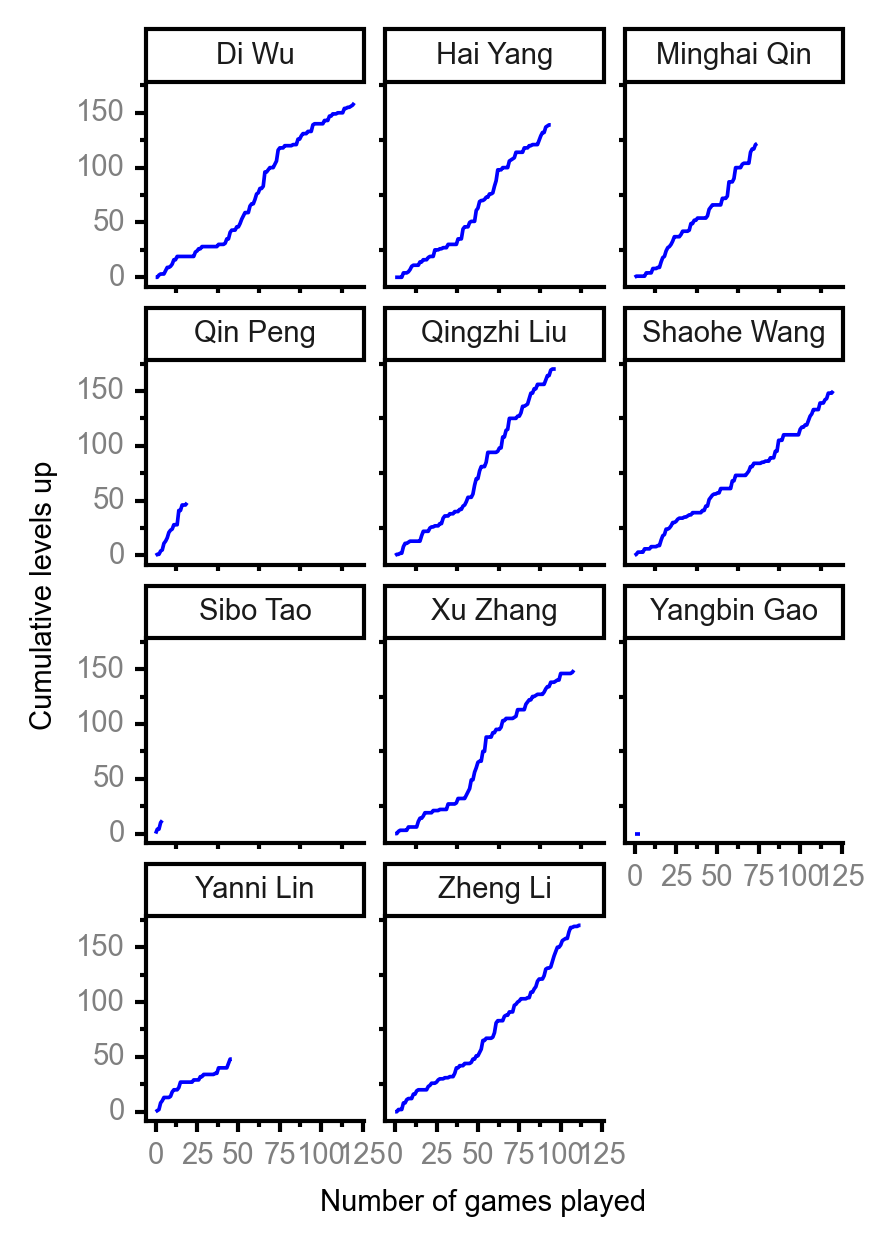
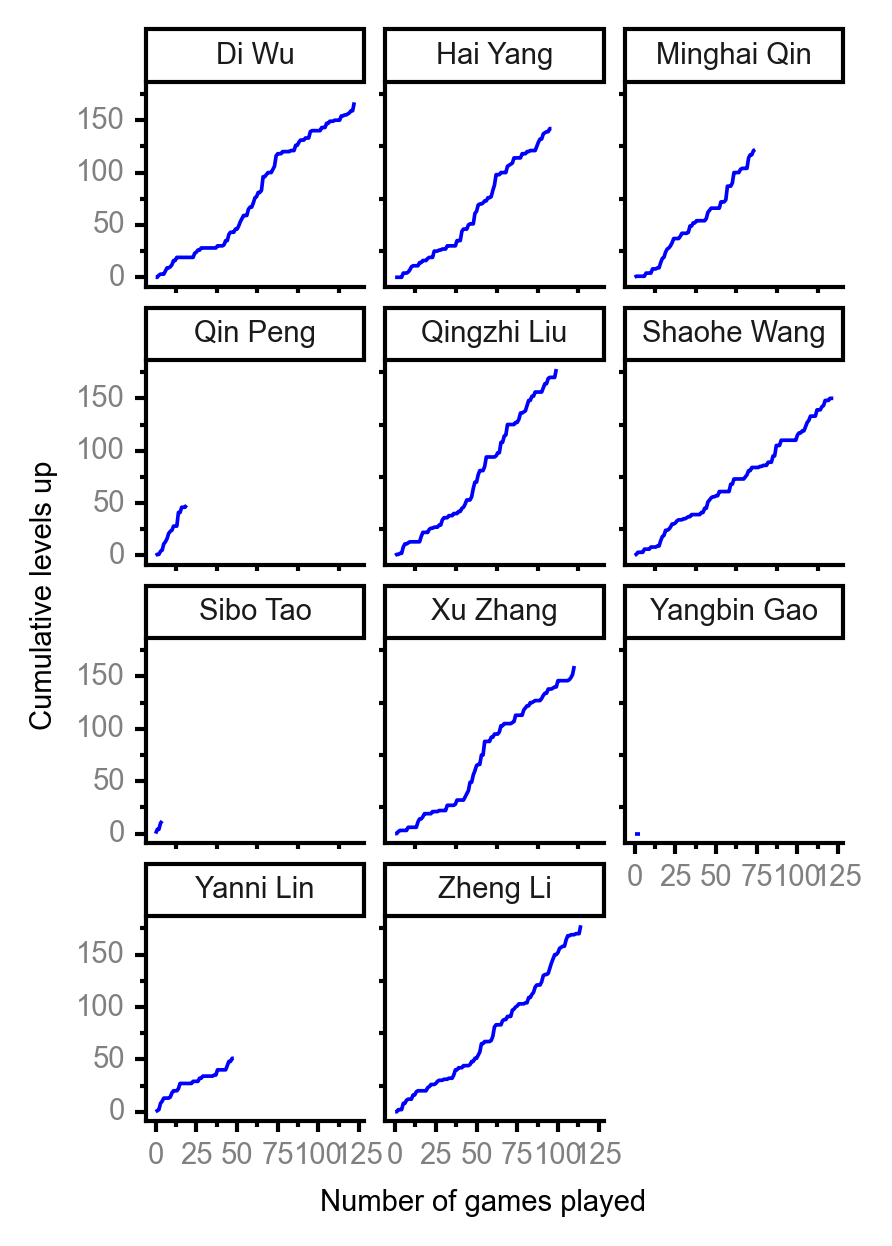
update player stats

diff --git a/player_stats.md b/player_stats.md
@@ -3,7 +3,7 @@ layout: player_stats
 title: Player Statistics
 author: Shaohe Wang
 author_url: https://scholar.google.com/citations?user=R_-kJV4AAAAJ&hl=en
-date: 2021-01-09
+date: 2021-01-10
 ---
 
 #### [Spreadsheet](https://docs.google.com/spreadsheets/d/1So3PBr9gV3I0LzApZOgJlQew2QjM1wAiWhR50rAnHRg/edit#gid=2137801449)
@@ -14,15 +14,15 @@ date: 2021-01-09
 
 | <br><br><br>Rank | <br><br><br>Player | <br> Lifetime <br> levels <br> up | <br><br> Winning <br> rate | <br> Average <br> levels <br> up | <br> Total <br> games <br> played | Games <br> played <br> as <br> MVP | Games <br> played <br> as <br> dealer | N_games <br> short <br> staffed <br> as dealer | Winning <br> rate <br> as <br> dealer |
 |:---:|:---:|:---:|:---:|:---:|:---:|:---:|:---:|:---:|:---:|
-| 1 | Zheng <br> Li | 170 | 58.4% | 2.58 | 113 | 4 | 18 | 0 | 61.1% |
-| 2 | Qingzhi <br> Liu | 170 | 53.1% | 3.27 | 98 | 3 | 15 | 3 | 46.7% |
-| 3 | Di <br> Wu | 159 | 45.5% | 2.89 | 121 | 5 | 19 | 0 | 42.1% |
-| 4 | Xu <br> Zhang | 152 | 46.8% | 2.98 | 109 | 3 | 16 | 0 | 43.8% |
-| 5 | Shaohe <br> Wang | 150 | 47.9% | 2.59 | 121 | 2 | 21 | 1 | 42.9% |
-| 6 | Hai <br> Yang | 142 | 49.5% | 3.02 | 95 | 6 | 15 | 1 | 46.7% |
+| 1 | Zheng <br> Li | 186 | 59.1% | 2.74 | 115 | 4 | 18 | 0 | 61.1% |
+| 2 | Qingzhi <br> Liu | 186 | 54.0% | 3.44 | 100 | 3 | 16 | 3 | 50.0% |
+| 3 | Di <br> Wu | 167 | 45.5% | 2.98 | 123 | 5 | 19 | 0 | 42.1% |
+| 4 | Xu <br> Zhang | 160 | 46.8% | 3.08 | 111 | 4 | 16 | 0 | 43.8% |
+| 5 | Shaohe <br> Wang | 150 | 47.2% | 2.59 | 123 | 2 | 21 | 1 | 42.9% |
+| 6 | Hai <br> Yang | 142 | 48.5% | 3.02 | 97 | 6 | 16 | 1 | 43.8% |
 | 7 | Minghai <br> Qin | 123 | 53.3% | 3.08 | 75 | 1 | 11 | 1 | 72.7% |
-| 8 | Qin <br> Peng | 51 | 75.0% | 3.40 | 20 | 2 | 2 | 0 | 100.0% |
-| 9 | Yanni <br> Lin | 51 | 38.3% | 2.83 | 47 | 4 | 3 | 1 | 66.7% |
+| 8 | Yanni <br> Lin | 59 | 38.8% | 3.11 | 49 | 5 | 3 | 1 | 66.7% |
+| 9 | Qin <br> Peng | 51 | 75.0% | 3.40 | 20 | 2 | 2 | 0 | 100.0% |
 | 10 | Sibo <br> Tao | 14 | 80.0% | 3.50 | 5 | 0 | 0 | 0 | 0.0% |
 | 11 | Yangbin <br> Gao | 0 | 0.0% | 0.00 | 4 | 0 | 0 | 0 | 0.0% |
 
